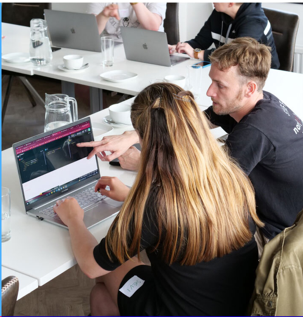
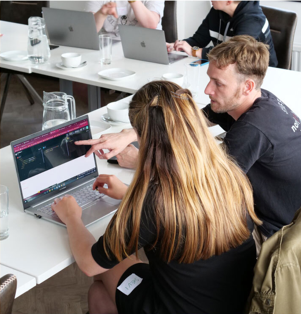
home section is styled.

diff --git a/build/index.html b/build/index.html
@@ -30,38 +30,50 @@
 
     <main>
       <section id="home">
-        <div>
-          <div>
-            <h1>uncodebar 2023</h1>
-            <h2>Sat, 9th September | 10:00 - 17:30 BST</h2>
-            <p>
+        <div class="flex flex-wrap">
+          <div
+            class="flex flex-col flex-wrap bg-blue-500 w-2/4 justify-center gap-10 p-20"
+          >
+            <h1 class="text-5xl">uncodebar 2023</h1>
+            <h2 class="text-3xl">Sat, 9th September | 10:00 - 17:30 BST</h2>
+            <p class="text-xl">
               Now in the NINTH year, uncodebar, the codebar unconference is
               back! Our annual one-day conference that encourages the codebar
               community to come together, share knowledge, and strengthen the
               community that supports our workshops.
             </p>
+            <button
+              class="bg-gradient-to-tr from-blue-800 to-pink-500 p-5 w-max rounded-full text-white border-none"
+              type="submit"
+              type="submit"
+            >
+              GET YOUR TICKETS!
+            </button>
           </div>
 
-          <button type="submit">GET YOUR TICKETS!</button>
+          <div class="w-2/4">
+            <img
+              class="w-full"
+              src="../images/1.png"
+              alt="A man and a woman working on a computer in an office"
+            />
+          </div>
         </div>
 
-        <img
-          src="./images/1.png"
-          alt="A man and a woman working on a computer in an office"
-        />
+        <div class="flex flex-wrap">
+          <div class="bg-pink-600 text-3xl w-2/4 p-20">
+            <p>At an unconference:</p>
+            <p>- no topics predetermined</p>
+            <p>- no keynote speakers</p>
+            <p>- no panels or working groups</p>
+          </div>
 
-        <div>
-          <p>At an unconference:</p>
-          <p>- no topics predetermined</p>
-          <p>- no keynote speakers</p>
-          <p>- no panels or working groups</p>
-        </div>
-
-        <div>
-          <p>Instead:</p>
-          <p>+ collaboration</p>
-          <p>+ no agenda until the day</p>
-          <p>+ freedom & discussion</p>
+          <div class="bg-blue-900 text-3xl w-2/4 p-20">
+            <p>Instead:</p>
+            <p>+ collaboration</p>
+            <p>+ no agenda until the day</p>
+            <p>+ freedom & discussion</p>
+          </div>
         </div>
       </section>
 

diff --git a/build/css/style.css b/build/css/style.css
@@ -542,8 +542,33 @@ video {
   display: flex;
 }
 
+.w-2\/4 {
+  width: 50%;
+}
+
+.w-max {
+  width: -moz-max-content;
+  width: max-content;
+}
+
+.w-full {
+  width: 100%;
+}
+
+.flex-col {
+  flex-direction: column;
+}
+
+.flex-wrap {
+  flex-wrap: wrap;
+}
+
 .items-center {
   align-items: center;
+}
+
+.justify-center {
+  justify-content: center;
 }
 
 .justify-between {
@@ -558,8 +583,16 @@ video {
   gap: 1.25rem;
 }
 
+.gap-10 {
+  gap: 2.5rem;
+}
+
 .overflow-hidden {
   overflow: hidden;
+}
+
+.rounded-full {
+  border-radius: 9999px;
 }
 
 .border-2 {
@@ -568,6 +601,10 @@ video {
 
 .border-solid {
   border-style: solid;
+}
+
+.border-none {
+  border-style: none;
 }
 
 .border-zinc-800 {
@@ -585,6 +622,35 @@ video {
   background-color: rgb(51 65 85 / var(--tw-bg-opacity));
 }
 
+.bg-blue-500 {
+  --tw-bg-opacity: 1;
+  background-color: rgb(59 130 246 / var(--tw-bg-opacity));
+}
+
+.bg-pink-600 {
+  --tw-bg-opacity: 1;
+  background-color: rgb(219 39 119 / var(--tw-bg-opacity));
+}
+
+.bg-blue-900 {
+  --tw-bg-opacity: 1;
+  background-color: rgb(30 58 138 / var(--tw-bg-opacity));
+}
+
+.bg-gradient-to-tr {
+  background-image: linear-gradient(to top right, var(--tw-gradient-stops));
+}
+
+.from-blue-800 {
+  --tw-gradient-from: #1e40af var(--tw-gradient-from-position);
+  --tw-gradient-to: rgb(30 64 175 / 0) var(--tw-gradient-to-position);
+  --tw-gradient-stops: var(--tw-gradient-from), var(--tw-gradient-to);
+}
+
+.to-pink-500 {
+  --tw-gradient-to: #ec4899 var(--tw-gradient-to-position);
+}
+
 .p-8 {
   padding: 2rem;
 }
@@ -597,6 +663,14 @@ video {
   padding: 2.5rem;
 }
 
+.p-20 {
+  padding: 5rem;
+}
+
+.p-5 {
+  padding: 1.25rem;
+}
+
 .text-sm {
   font-size: 0.875rem;
   line-height: 1.25rem;
@@ -605,4 +679,24 @@ video {
 .text-xs {
   font-size: 0.75rem;
   line-height: 1rem;
+}
+
+.text-5xl {
+  font-size: 3rem;
+  line-height: 1;
+}
+
+.text-3xl {
+  font-size: 1.875rem;
+  line-height: 2.25rem;
+}
+
+.text-xl {
+  font-size: 1.25rem;
+  line-height: 1.75rem;
+}
+
+.text-white {
+  --tw-text-opacity: 1;
+  color: rgb(255 255 255 / var(--tw-text-opacity));
 }
